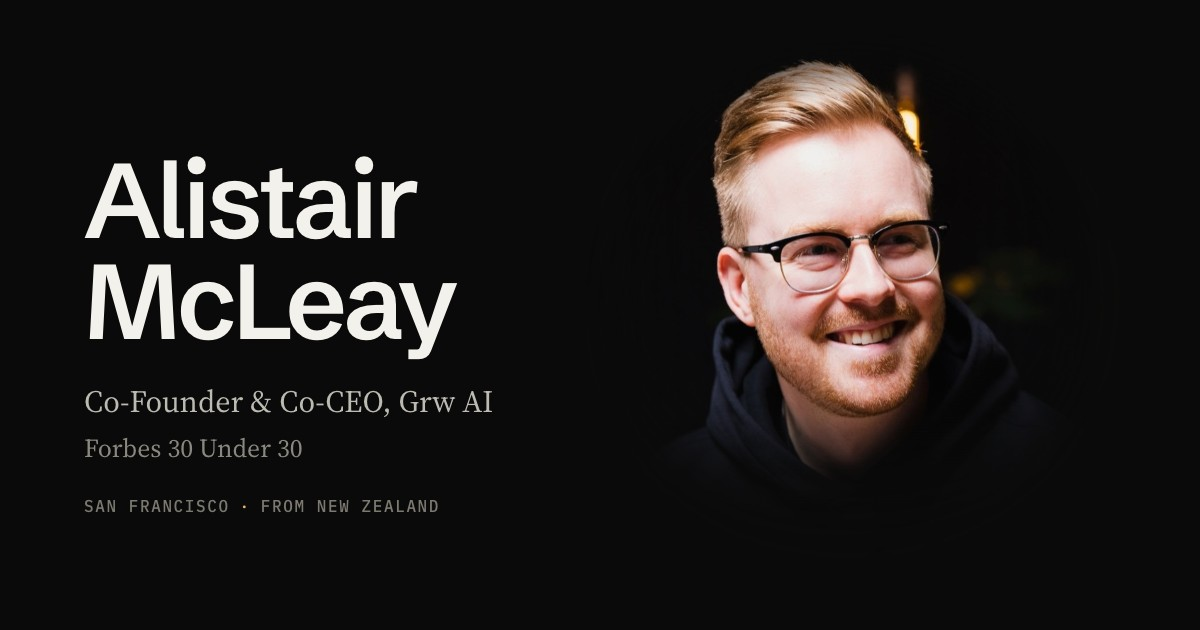
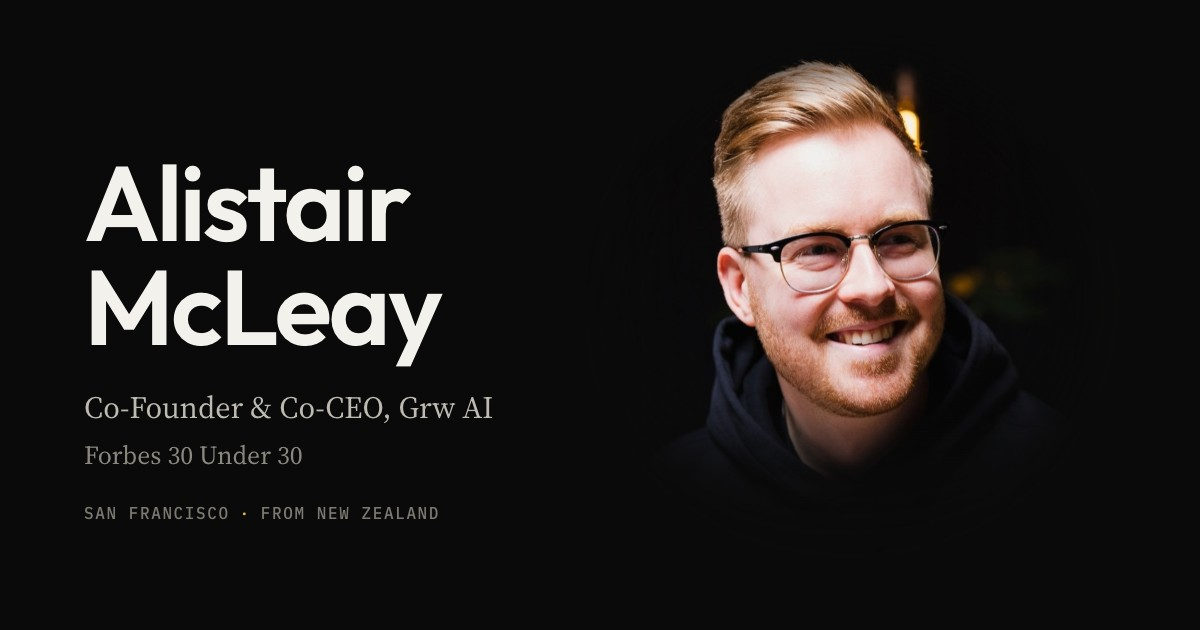
Switch headline font to Outfit and regenerate social card

diff --git a/index.html b/index.html
@@ -24,13 +24,13 @@
   <meta name="theme-color" content="#0A0A0A">
   <link rel="preconnect" href="https://fonts.googleapis.com">
   <link rel="preconnect" href="https://fonts.gstatic.com" crossorigin>
-  <link rel="stylesheet" href="https://fonts.googleapis.com/css2?family=Schibsted+Grotesk:wght@500;600;700&family=Source+Serif+4:ital,opsz,wght@0,8..60,400;0,8..60,500;1,8..60,400&family=IBM+Plex+Mono:wght@400;500&display=swap">
+  <link rel="stylesheet" href="https://fonts.googleapis.com/css2?family=Outfit:wght@500;600&family=Source+Serif+4:ital,opsz,wght@0,8..60,400;0,8..60,500;1,8..60,400&family=IBM+Plex+Mono:wght@400;500&display=swap">
   <style>
     :root{
       --ground:#0A0A0A; --ink:#F3F1EC; --text:#BDBAB2; --text-2:#A19E96; --mute:#7C7970;
       --line:rgba(243,241,236,.10); --line-2:rgba(243,241,236,.22); --acc:#E2B26A;
       --h-ink:var(--ink); --h-text:var(--text); --h-mute:var(--mute); --h-line:var(--line); --h-line-2:var(--line-2);
-      --display:"Schibsted Grotesk","Helvetica Neue",Arial,sans-serif;
+      --display:"Outfit","Helvetica Neue",Arial,sans-serif;
       --body:"Source Serif 4",Georgia,"Times New Roman",serif;
       --mono:"IBM Plex Mono",ui-monospace,Menlo,monospace;
     }
@@ -48,7 +48,7 @@
     .wrap{max-width:920px;margin:0 auto;padding:0 32px}
 
     .hero{display:grid;grid-template-columns:minmax(0,1fr) 400px;gap:24px;align-items:end}
-    .hero h1{font-family:var(--display);font-weight:600;font-size:clamp(44px,6.4vw,74px);line-height:.96;letter-spacing:-.038em;margin:0 0 18px;color:var(--h-ink)}
+    .hero h1{font-family:var(--display);font-weight:600;font-size:clamp(44px,6.4vw,74px);line-height:.98;letter-spacing:-.03em;margin:0 0 18px;color:var(--h-ink)}
     .hero .role{margin:0;font-size:20px;color:var(--h-text)}
     .hero .role a{color:var(--h-ink);text-decoration-color:var(--h-line-2)}
     .hero .role a:hover{color:var(--acc);text-decoration-color:var(--acc)}
